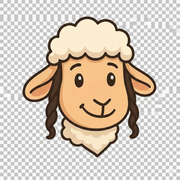
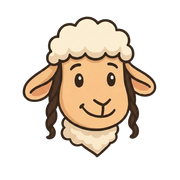
Improve mascot integration and fix transparency
- Fix mascot images with proper transparency
- Redesign quiz completion screen with side-by-side layout
- Use regular img tag instead of Next.js Image for better transparency
- Regenerate PWA icons from updated app_icon

diff --git a/web/components/screens/QuizScreen.tsx b/web/components/screens/QuizScreen.tsx
@@ -438,44 +438,48 @@ export function QuizScreen() {
   if (quizComplete) {
     const percentage = Math.round((score / totalQuestions) * 100);
     
-    // Determine mascot mood based on score
-    const getMascotMood = () => {
-      if (percentage === 100) return 'celebrating';
-      if (percentage >= 70) return 'happy';
-      return 'encouraging';
+    // Determine mascot mood and colors based on score
+    const getScoreStyle = () => {
+      if (percentage === 100) return { mood: 'celebrating' as const, color: 'from-yellow-400 to-amber-500', text: 'מושלם!' };
+      if (percentage >= 80) return { mood: 'celebrating' as const, color: 'from-green-400 to-emerald-500', text: 'מצוין!' };
+      if (percentage >= 60) return { mood: 'happy' as const, color: 'from-desert-oasis-accent to-orange-500', text: 'יפה מאוד!' };
+      return { mood: 'encouraging' as const, color: 'from-desert-oasis-accent to-orange-400', text: 'ממשיכים להתקדם!' };
     };
     
+    const { mood, color, text } = getScoreStyle();
+    
     return (
-      <div className="min-h-screen bg-desert-oasis-secondary dark:bg-desert-oasis-dark-secondary">
+      <div className="min-h-screen bg-desert-oasis-secondary dark:bg-desert-oasis-dark-secondary flex flex-col">
         <StudyHeader 
           title={t('quiz_title')}
           onBack={() => router.push('/')}
         />
 
-        <div className="max-w-2xl mx-auto p-4">
-          <div className="bg-desert-oasis-card dark:bg-desert-oasis-dark-card rounded-2xl p-8 text-center">
-            <div className="mb-6">
-              {/* Mascot with score-based mood */}
-              <div className="mb-4">
-                <Mascot mood={getMascotMood()} size="lg" />
-              </div>
-              
-              <div className="w-20 h-20 mx-auto mb-4 rounded-full bg-gradient-to-br from-desert-oasis-accent to-orange-500 flex items-center justify-center">
-                <span className="text-3xl font-source font-bold text-white">
+        <div className="flex-1 flex flex-col items-center justify-center p-6">
+          {/* Main content card */}
+          <div className="bg-desert-oasis-card dark:bg-desert-oasis-dark-card rounded-3xl p-8 w-full max-w-sm shadow-xl">
+            {/* Mascot and score row */}
+            <div className="flex items-center justify-center gap-4 mb-6">
+              <Mascot mood={mood} size="md" />
+              <div className="text-center">
+                <div className={`text-6xl font-source font-bold bg-gradient-to-br ${color} bg-clip-text text-transparent`}>
                   {percentage}%
-                </span>
+                </div>
+                <p className="font-source text-xl font-bold text-[var(--text-primary)]">
+                  {text}
+                </p>
               </div>
-              <p className="font-source text-2xl font-bold text-[var(--text-primary)] mb-2">
-                {percentage === 100 ? 'מושלם!' : percentage >= 80 ? 'מצוין!' : percentage >= 60 ? 'טוב מאוד!' : 'ממשיכים להתקדם!'}
-              </p>
-              <p className="font-explanation text-lg text-[var(--text-secondary)]">
-                ענית נכון על {score} מתוך {totalQuestions} שאלות
-              </p>
             </div>
+            
+            {/* Score details */}
+            <p className="font-explanation text-center text-[var(--text-secondary)] mb-6">
+              {score} מתוך {totalQuestions} תשובות נכונות
+            </p>
 
+            {/* Button */}
             <button
               onClick={handleFinish}
-              className="w-full px-6 py-3 bg-desert-oasis-accent text-white rounded-xl font-explanation text-lg font-semibold"
+              className={`w-full px-6 py-4 bg-gradient-to-r ${color} text-white rounded-2xl font-explanation text-lg font-semibold shadow-md hover:shadow-lg transition-all active:scale-[0.98]`}
             >
               {t('quiz_continue')}
             </button>

diff --git a/web/components/ui/Mascot.tsx b/web/components/ui/Mascot.tsx
@@ -1,7 +1,5 @@
 'use client';
 
-import Image from 'next/image';
-
 export type MascotMood = 
   | 'default'
   | 'celebrating'
@@ -55,13 +53,13 @@ export function Mascot({
   return (
     <div className={`flex flex-col items-center gap-2 ${className}`}>
       <div className="relative">
-        <Image
+        {/* eslint-disable-next-line @next/next/no-img-element */}
+        <img
           src={imageSrc}
           alt="כבשון - המדריך שלך ללימוד"
           width={dimensions.width}
           height={dimensions.height}
           className="object-contain"
-          priority={mood === 'celebrating'} // Prioritize loading for celebrations
         />
       </div>
       
